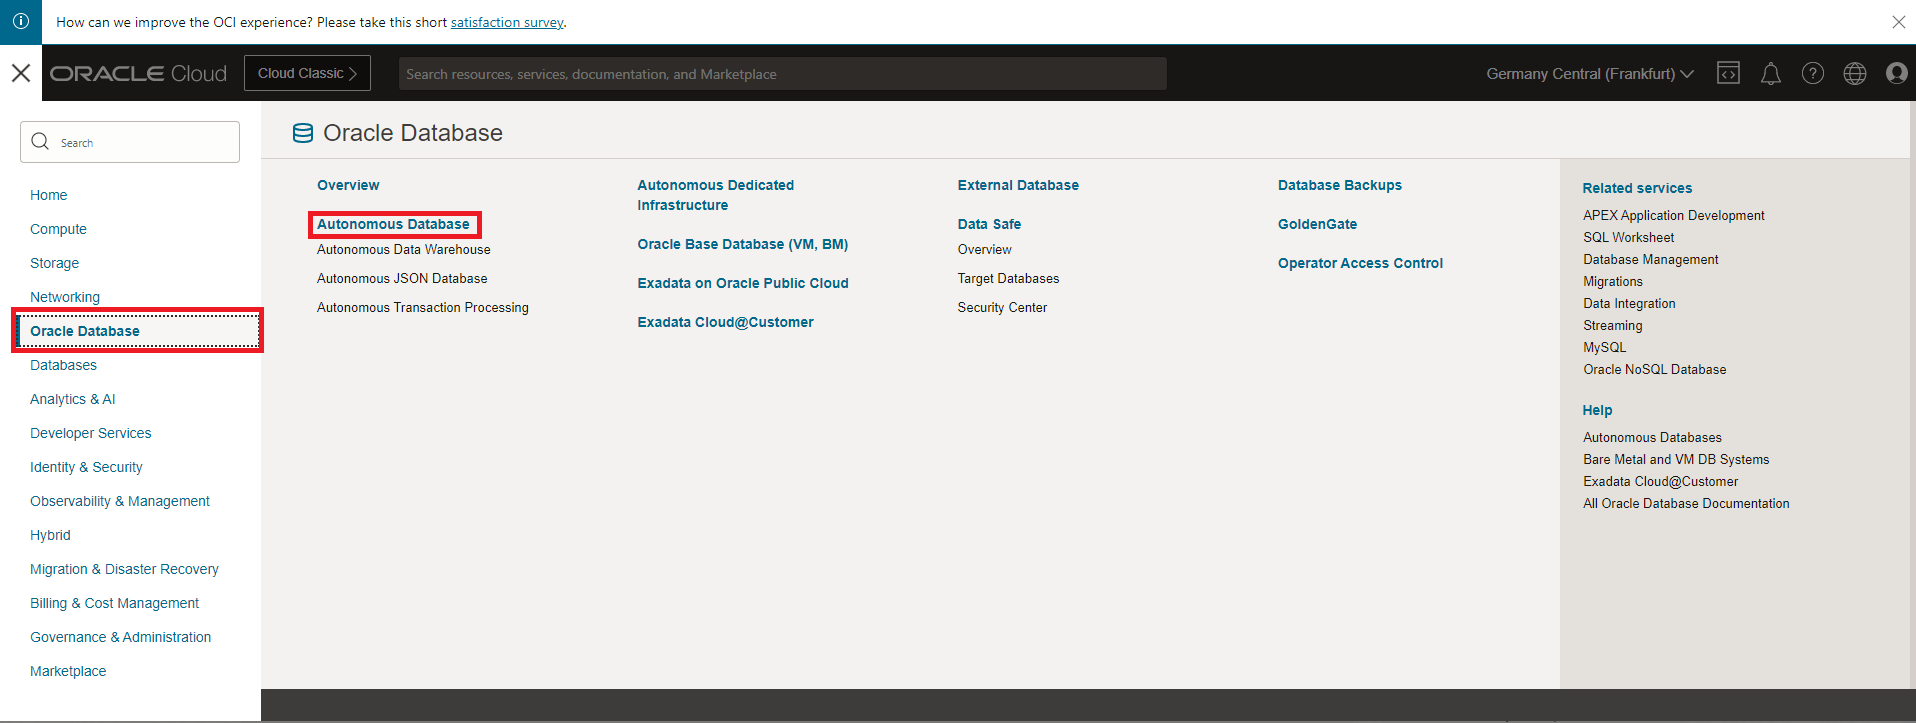
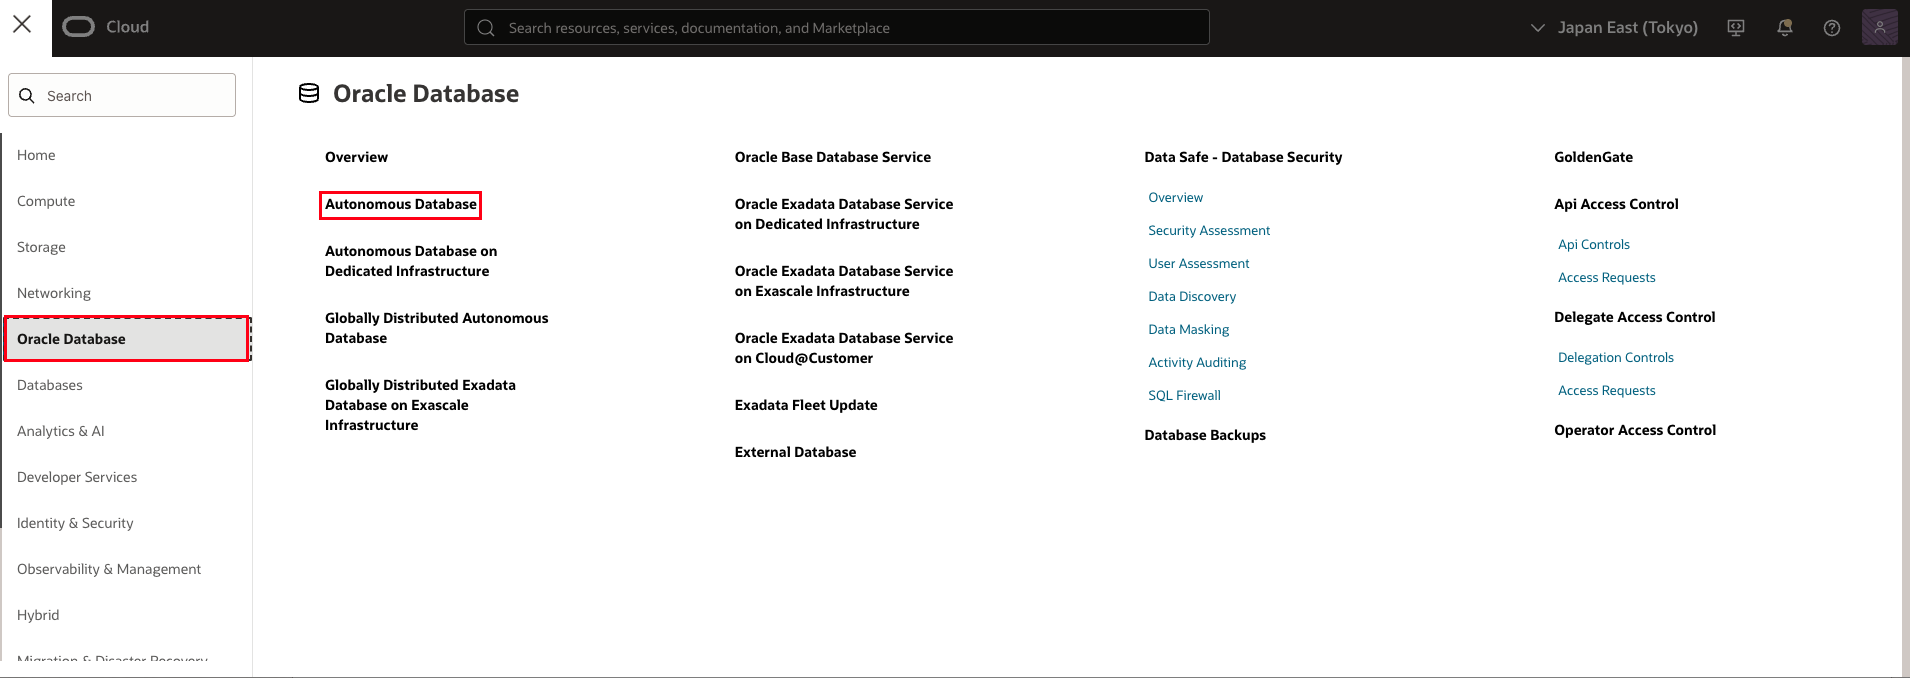
QA WMS 11442 (#181)
Update WMS 11442

Update with screenshots for redwood theme. Fixed terraform script with updated link to support ECPU model for ADB.

diff --git a/adb-graph/moviestream-graph/setup/setup.md b/adb-graph/moviestream-graph/setup/setup.md
@@ -28,7 +28,7 @@ The instructions below will show you how to run a stack that will automatically 
 
 1. Login to the Oracle Cloud.
 
-2.  Once logged in, use this [link](https://cloud.oracle.com/resourcemanager/stacks/create?zipUrl=https://objectstorage.us-ashburn-1.oraclecloud.com/p/0kMdD7Vnv0J1st_2cU-S5PYNWT4SKzOOA04XbhwltUVXnOQ7vec1JJBEGk1eOxPS/n/oradbclouducm/b/moviestream_livelab/o/MovieStream_live_lab_7_AnD.zip) to create and run the Stack.
+2.  Once logged in, use this [link](https://cloud.oracle.com/resourcemanager/stacks/create?zipUrl=https://objectstorage.us-ashburn-1.oraclecloud.com/p/KJbOHpQEuv8Qf_Hjz4p0_bpFeVcSUf92T5nBTqP1LTHzOL-hgTwnPDwD06lgHNtC/n/oradbclouducm/b/moviestream_livelab/o/MovieStream_base_brownbutton.zip) to create and run the Stack.
   > Note: the link will open in a new tab or window.
 
 3. You will be directed to this page:
